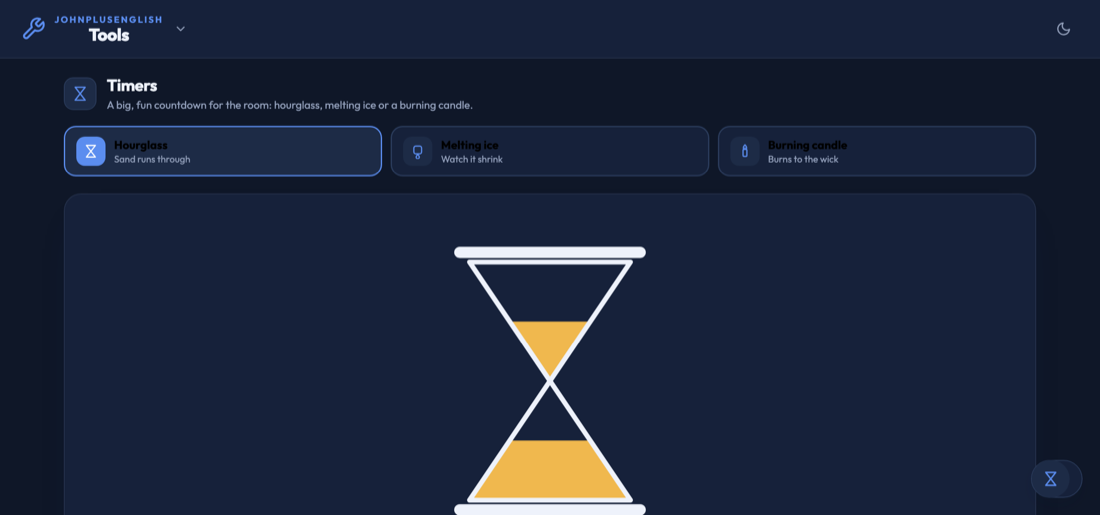
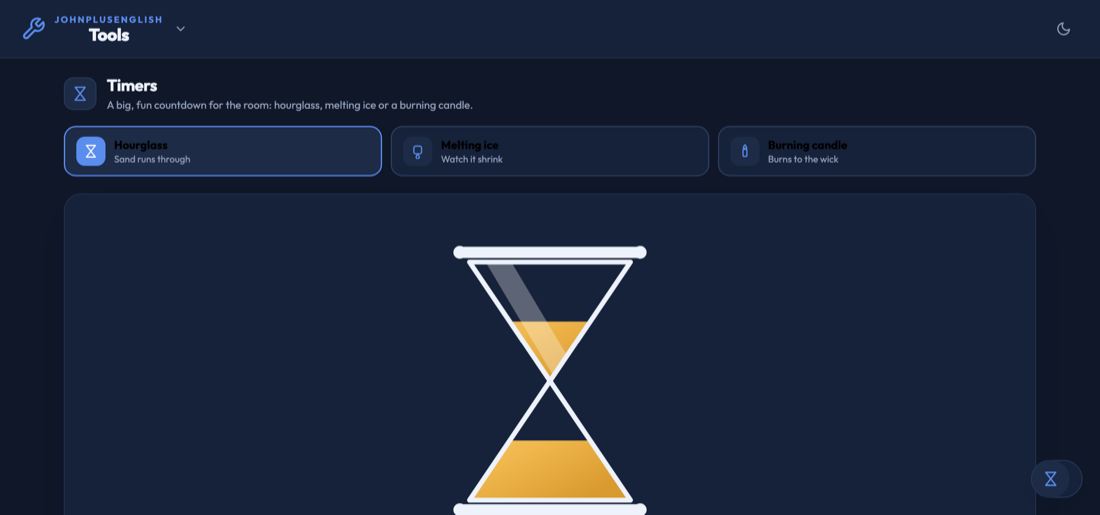
Timers: give the three visuals more life without leaving the site's style
Same flat, clean vector language, just more detail: gradient fills instead
of flat colour for volume (sand, ice, wax), a soft radial glow behind the
candle flame, a three-tone flame core, falling sand grains instead of a
single stream line, ice facet and highlight lines, a melt-pool collar
around the candle's wick, rounded finials on the hourglass frame, and a
drop shadow under all three for weight.

Changed region(s): [[0.4327, 0.4971, 0.5255, 0.7146], [0.4945, 0.901, 0.5873, 0.9631]]

diff --git a/src/timers.html b/src/timers.html
@@ -242,18 +242,31 @@ function tmrRenderHourglass(progress, running) {
   var topClipY = 100 - topH, botClipY = 174 - botH;
   var streamOn = running && progress > 0.003 && progress < 0.997;
   var shimmer = (0.55 + 0.45 * Math.abs(Math.sin(Date.now() / 90))).toFixed(2);
+  var grainPhase = (Date.now() % 500) / 500;
+  var grainPhase2 = ((Date.now() + 250) % 500) / 500;
   return '' +
     '<svg viewBox="0 0 160 200" class="tmr-svg" xmlns="http://www.w3.org/2000/svg">' +
       '<defs>' +
         '<clipPath id="tmrTopClip"><rect x="0" y="' + topClipY.toFixed(1) + '" width="160" height="' + (topH + 1).toFixed(1) + '"/></clipPath>' +
         '<clipPath id="tmrBotClip"><rect x="0" y="' + botClipY.toFixed(1) + '" width="160" height="' + (botH + 1).toFixed(1) + '"/></clipPath>' +
+        '<clipPath id="tmrGlassClipTop"><polygon points="30,26 130,26 80,100"/></clipPath>' +
+        '<linearGradient id="tmrSandGrad" x1="0" y1="0" x2="0.7" y2="1">' +
+          '<stop offset="0" stop-color="#ffd27a"/><stop offset="0.55" stop-color="#f0b84e"/><stop offset="1" stop-color="#d99a2f"/>' +
+        '</linearGradient>' +
       '</defs>' +
-      '<polygon points="30,26 130,26 80,100" fill="#f0b84e" clip-path="url(#tmrTopClip)"/>' +
-      '<polygon points="30,174 130,174 80,100" fill="#f0b84e" clip-path="url(#tmrBotClip)"/>' +
-      (streamOn ? '<line x1="80" y1="97" x2="80" y2="103" stroke="#f0b84e" stroke-width="2.5" stroke-linecap="round" opacity="' + shimmer + '"/>' : '') +
+      '<ellipse cx="80" cy="192" rx="36" ry="5" fill="var(--ink)" opacity="0.08"/>' +
+      '<polygon points="30,26 130,26 80,100" fill="url(#tmrSandGrad)" clip-path="url(#tmrTopClip)"/>' +
+      '<polygon points="30,174 130,174 80,100" fill="url(#tmrSandGrad)" clip-path="url(#tmrBotClip)"/>' +
+      (streamOn ?
+        '<circle cx="80" cy="' + (98 + grainPhase * 5).toFixed(1) + '" r="1.3" fill="#f0b84e" opacity="' + shimmer + '"/>' +
+        '<circle cx="80.8" cy="' + (98 + grainPhase2 * 5).toFixed(1) + '" r="1" fill="#f0b84e" opacity="' + shimmer + '"/>'
+      : '') +
+      '<polygon points="40,26 56,26 100,100 84,100" fill="#ffffff" opacity="0.3" clip-path="url(#tmrGlassClipTop)"/>' +
       '<path d="M30 26 L130 26 L80 100 Z M30 174 L130 174 L80 100 Z" fill="none" stroke="var(--ink)" stroke-width="3" stroke-linejoin="round"/>' +
       '<line x1="24" y1="20" x2="136" y2="20" stroke="var(--ink)" stroke-width="7" stroke-linecap="round"/>' +
       '<line x1="24" y1="180" x2="136" y2="180" stroke="var(--ink)" stroke-width="7" stroke-linecap="round"/>' +
+      '<circle cx="24" cy="20" r="4" fill="var(--ink)"/><circle cx="136" cy="20" r="4" fill="var(--ink)"/>' +
+      '<circle cx="24" cy="180" r="4" fill="var(--ink)"/><circle cx="136" cy="180" r="4" fill="var(--ink)"/>' +
     '</svg>';
 }
 
@@ -269,9 +282,19 @@ function tmrRenderIce(progress, running) {
   var phaseB = ((Date.now() + 900) % 1800) / 1800;
   return '' +
     '<svg viewBox="0 0 160 200" class="tmr-svg" xmlns="http://www.w3.org/2000/svg">' +
-      '<ellipse cx="80" cy="176" rx="' + puddleRx.toFixed(1) + '" ry="' + puddleRy.toFixed(1) + '" fill="#8fd0f2" opacity="' + puddleOpacity + '"/>' +
-      '<rect x="' + x + '" y="' + topY.toFixed(1) + '" width="' + w + '" height="' + h.toFixed(1) + '" rx="' + rx.toFixed(1) + '" fill="#bfe8fb" fill-opacity="0.85" stroke="#8fd0f2" stroke-width="2"/>' +
-      '<rect x="' + (x + 10) + '" y="' + (topY + 8).toFixed(1) + '" width="9" height="' + Math.max(0, h - 20).toFixed(1) + '" rx="4" fill="#ffffff" opacity="0.55"/>' +
+      '<defs>' +
+        '<linearGradient id="tmrIceGrad" x1="0" y1="0" x2="1" y2="1">' +
+          '<stop offset="0" stop-color="#eaf8ff"/><stop offset="0.5" stop-color="#bfe8fb"/><stop offset="1" stop-color="#8fd0f2"/>' +
+        '</linearGradient>' +
+        '<radialGradient id="tmrPuddleGrad" cx="0.5" cy="0.35" r="0.65">' +
+          '<stop offset="0" stop-color="#d3f1fd"/><stop offset="1" stop-color="#8fd0f2"/>' +
+        '</radialGradient>' +
+      '</defs>' +
+      '<ellipse cx="80" cy="176" rx="' + puddleRx.toFixed(1) + '" ry="' + puddleRy.toFixed(1) + '" fill="url(#tmrPuddleGrad)" opacity="' + puddleOpacity + '"/>' +
+      '<rect x="' + x + '" y="' + topY.toFixed(1) + '" width="' + w + '" height="' + h.toFixed(1) + '" rx="' + rx.toFixed(1) + '" fill="url(#tmrIceGrad)" fill-opacity="0.92" stroke="#8fd0f2" stroke-width="2"/>' +
+      (h > 26 ? '<line x1="' + (x + 8) + '" y1="' + (topY + h * 0.3).toFixed(1) + '" x2="' + (x + w - 10) + '" y2="' + (topY + h * 0.5).toFixed(1) + '" stroke="#ffffff" stroke-width="1" opacity="0.3"/>' : '') +
+      '<rect x="' + (x + 10) + '" y="' + (topY + 8).toFixed(1) + '" width="9" height="' + Math.max(0, h - 20).toFixed(1) + '" rx="4" fill="#ffffff" opacity="0.6"/>' +
+      '<rect x="' + (x + w - 15) + '" y="' + (topY + 14).toFixed(1) + '" width="4" height="' + Math.max(0, h - 30).toFixed(1) + '" rx="2" fill="#ffffff" opacity="0.35"/>' +
       (dripsOn ?
         '<circle cx="' + (x + 16) + '" cy="' + (bottomY + phaseA * 14).toFixed(1) + '" r="3" fill="#8fd0f2" opacity="' + (1 - phaseA).toFixed(2) + '"/>' +
         '<circle cx="' + (x + 52) + '" cy="' + (bottomY + phaseB * 14).toFixed(1) + '" r="2.4" fill="#8fd0f2" opacity="' + (1 - phaseB).toFixed(2) + '"/>'
@@ -290,17 +313,29 @@ function tmrRenderCandle(progress, running) {
   var dripOn = running && lit && h > 24;
   var dripPhase = (Date.now() % 2600) / 2600;
   var dripY = topY + 14 + dripPhase * Math.min(h - 10, 40);
+  var glowPulse = (0.5 + 0.5 * Math.abs(Math.sin(Date.now() / 260))).toFixed(2);
   return '' +
     '<svg viewBox="0 0 160 200" class="tmr-svg" xmlns="http://www.w3.org/2000/svg">' +
-      '<ellipse cx="80" cy="184" rx="26" ry="6" fill="var(--ink)" opacity="0.12"/>' +
-      '<rect x="' + x + '" y="' + topY.toFixed(1) + '" width="' + w + '" height="' + h.toFixed(1) + '" rx="7" fill="#fbeed9" stroke="#e7d3ac" stroke-width="1.5"/>' +
+      '<defs>' +
+        '<linearGradient id="tmrWaxGrad" x1="0" y1="0" x2="1" y2="0">' +
+          '<stop offset="0" stop-color="#fffaf0"/><stop offset="0.45" stop-color="#fbeed9"/><stop offset="1" stop-color="#ecd9b4"/>' +
+        '</linearGradient>' +
+        '<radialGradient id="tmrFlameGlow" cx="0.5" cy="0.5" r="0.5">' +
+          '<stop offset="0" stop-color="#ffd35b" stop-opacity="0.55"/><stop offset="1" stop-color="#ffd35b" stop-opacity="0"/>' +
+        '</radialGradient>' +
+      '</defs>' +
+      '<ellipse cx="80" cy="185" rx="28" ry="6.5" fill="var(--ink)" opacity="0.1"/>' +
+      '<rect x="' + x + '" y="' + topY.toFixed(1) + '" width="' + w + '" height="' + h.toFixed(1) + '" rx="7" fill="url(#tmrWaxGrad)" stroke="#e7d3ac" stroke-width="1.5"/>' +
       '<rect x="' + (x + 4) + '" y="' + topY.toFixed(1) + '" width="6" height="' + h.toFixed(1) + '" rx="3" fill="#ffffff" opacity="0.45"/>' +
-      (dripOn ? '<circle cx="' + (x + w - 5) + '" cy="' + dripY.toFixed(1) + '" r="2.6" fill="#f4e2bd"/>' : '') +
+      '<ellipse cx="80" cy="' + topY.toFixed(1) + '" rx="9" ry="2.6" fill="#e9d3a4"/>' +
+      (dripOn ? '<path d="M' + (x + w - 4) + ' ' + dripY.toFixed(1) + ' q4.5 3.5 0 9 q-4.5 -3.5 0 -9 Z" fill="#f4e2bd"/>' : '') +
       '<line x1="80" y1="' + topY.toFixed(1) + '" x2="80" y2="' + (topY - 9).toFixed(1) + '" stroke="#4a3c28" stroke-width="2" stroke-linecap="round"/>' +
       (lit ?
+        '<circle cx="80" cy="' + (topY - 15).toFixed(1) + '" r="' + (13 + flick * 1.3).toFixed(1) + '" fill="url(#tmrFlameGlow)" opacity="' + glowPulse + '"/>' +
         '<g transform="translate(80,' + (topY - 9).toFixed(1) + ') scale(' + flameScale + ') skewX(' + flameSkew + ')">' +
           '<path d="M0 -22 C 9 -12 9 -2 0 4 C -9 -2 -9 -12 0 -22 Z" fill="#ff8a3d"/>' +
           '<path d="M0 -15 C 5 -8 5 -1 0 3 C -5 -1 -5 -8 0 -15 Z" fill="#ffd35b"/>' +
+          '<path d="M0 -8 C 2.4 -4 2.4 -1 0 2 C -2.4 -1 -2.4 -4 0 -8 Z" fill="#fff6d8"/>' +
         '</g>'
       :
         '<path d="M80 ' + (topY - 9).toFixed(1) + ' C 86 ' + (topY - 20).toFixed(1) + ' 76 ' + (topY - 30).toFixed(1) + ' 82 ' + (topY - 42).toFixed(1) + '" fill="none" stroke="var(--muted)" stroke-width="2" stroke-linecap="round" opacity="0.5"/>'

diff --git a/tools/timers.html b/tools/timers.html
@@ -456,18 +456,31 @@ function tmrRenderHourglass(progress, running) {
   var topClipY = 100 - topH, botClipY = 174 - botH;
   var streamOn = running && progress > 0.003 && progress < 0.997;
   var shimmer = (0.55 + 0.45 * Math.abs(Math.sin(Date.now() / 90))).toFixed(2);
+  var grainPhase = (Date.now() % 500) / 500;
+  var grainPhase2 = ((Date.now() + 250) % 500) / 500;
   return '' +
     '<svg viewBox="0 0 160 200" class="tmr-svg" xmlns="http://www.w3.org/2000/svg">' +
       '<defs>' +
         '<clipPath id="tmrTopClip"><rect x="0" y="' + topClipY.toFixed(1) + '" width="160" height="' + (topH + 1).toFixed(1) + '"/></clipPath>' +
         '<clipPath id="tmrBotClip"><rect x="0" y="' + botClipY.toFixed(1) + '" width="160" height="' + (botH + 1).toFixed(1) + '"/></clipPath>' +
+        '<clipPath id="tmrGlassClipTop"><polygon points="30,26 130,26 80,100"/></clipPath>' +
+        '<linearGradient id="tmrSandGrad" x1="0" y1="0" x2="0.7" y2="1">' +
+          '<stop offset="0" stop-color="#ffd27a"/><stop offset="0.55" stop-color="#f0b84e"/><stop offset="1" stop-color="#d99a2f"/>' +
+        '</linearGradient>' +
       '</defs>' +
-      '<polygon points="30,26 130,26 80,100" fill="#f0b84e" clip-path="url(#tmrTopClip)"/>' +
-      '<polygon points="30,174 130,174 80,100" fill="#f0b84e" clip-path="url(#tmrBotClip)"/>' +
-      (streamOn ? '<line x1="80" y1="97" x2="80" y2="103" stroke="#f0b84e" stroke-width="2.5" stroke-linecap="round" opacity="' + shimmer + '"/>' : '') +
+      '<ellipse cx="80" cy="192" rx="36" ry="5" fill="var(--ink)" opacity="0.08"/>' +
+      '<polygon points="30,26 130,26 80,100" fill="url(#tmrSandGrad)" clip-path="url(#tmrTopClip)"/>' +
+      '<polygon points="30,174 130,174 80,100" fill="url(#tmrSandGrad)" clip-path="url(#tmrBotClip)"/>' +
+      (streamOn ?
+        '<circle cx="80" cy="' + (98 + grainPhase * 5).toFixed(1) + '" r="1.3" fill="#f0b84e" opacity="' + shimmer + '"/>' +
+        '<circle cx="80.8" cy="' + (98 + grainPhase2 * 5).toFixed(1) + '" r="1" fill="#f0b84e" opacity="' + shimmer + '"/>'
+      : '') +
+      '<polygon points="40,26 56,26 100,100 84,100" fill="#ffffff" opacity="0.3" clip-path="url(#tmrGlassClipTop)"/>' +
       '<path d="M30 26 L130 26 L80 100 Z M30 174 L130 174 L80 100 Z" fill="none" stroke="var(--ink)" stroke-width="3" stroke-linejoin="round"/>' +
       '<line x1="24" y1="20" x2="136" y2="20" stroke="var(--ink)" stroke-width="7" stroke-linecap="round"/>' +
       '<line x1="24" y1="180" x2="136" y2="180" stroke="var(--ink)" stroke-width="7" stroke-linecap="round"/>' +
+      '<circle cx="24" cy="20" r="4" fill="var(--ink)"/><circle cx="136" cy="20" r="4" fill="var(--ink)"/>' +
+      '<circle cx="24" cy="180" r="4" fill="var(--ink)"/><circle cx="136" cy="180" r="4" fill="var(--ink)"/>' +
     '</svg>';
 }
 
@@ -483,9 +496,19 @@ function tmrRenderIce(progress, running) {
   var phaseB = ((Date.now() + 900) % 1800) / 1800;
   return '' +
     '<svg viewBox="0 0 160 200" class="tmr-svg" xmlns="http://www.w3.org/2000/svg">' +
-      '<ellipse cx="80" cy="176" rx="' + puddleRx.toFixed(1) + '" ry="' + puddleRy.toFixed(1) + '" fill="#8fd0f2" opacity="' + puddleOpacity + '"/>' +
-      '<rect x="' + x + '" y="' + topY.toFixed(1) + '" width="' + w + '" height="' + h.toFixed(1) + '" rx="' + rx.toFixed(1) + '" fill="#bfe8fb" fill-opacity="0.85" stroke="#8fd0f2" stroke-width="2"/>' +
-      '<rect x="' + (x + 10) + '" y="' + (topY + 8).toFixed(1) + '" width="9" height="' + Math.max(0, h - 20).toFixed(1) + '" rx="4" fill="#ffffff" opacity="0.55"/>' +
+      '<defs>' +
+        '<linearGradient id="tmrIceGrad" x1="0" y1="0" x2="1" y2="1">' +
+          '<stop offset="0" stop-color="#eaf8ff"/><stop offset="0.5" stop-color="#bfe8fb"/><stop offset="1" stop-color="#8fd0f2"/>' +
+        '</linearGradient>' +
+        '<radialGradient id="tmrPuddleGrad" cx="0.5" cy="0.35" r="0.65">' +
+          '<stop offset="0" stop-color="#d3f1fd"/><stop offset="1" stop-color="#8fd0f2"/>' +
+        '</radialGradient>' +
+      '</defs>' +
+      '<ellipse cx="80" cy="176" rx="' + puddleRx.toFixed(1) + '" ry="' + puddleRy.toFixed(1) + '" fill="url(#tmrPuddleGrad)" opacity="' + puddleOpacity + '"/>' +
+      '<rect x="' + x + '" y="' + topY.toFixed(1) + '" width="' + w + '" height="' + h.toFixed(1) + '" rx="' + rx.toFixed(1) + '" fill="url(#tmrIceGrad)" fill-opacity="0.92" stroke="#8fd0f2" stroke-width="2"/>' +
+      (h > 26 ? '<line x1="' + (x + 8) + '" y1="' + (topY + h * 0.3).toFixed(1) + '" x2="' + (x + w - 10) + '" y2="' + (topY + h * 0.5).toFixed(1) + '" stroke="#ffffff" stroke-width="1" opacity="0.3"/>' : '') +
+      '<rect x="' + (x + 10) + '" y="' + (topY + 8).toFixed(1) + '" width="9" height="' + Math.max(0, h - 20).toFixed(1) + '" rx="4" fill="#ffffff" opacity="0.6"/>' +
+      '<rect x="' + (x + w - 15) + '" y="' + (topY + 14).toFixed(1) + '" width="4" height="' + Math.max(0, h - 30).toFixed(1) + '" rx="2" fill="#ffffff" opacity="0.35"/>' +
       (dripsOn ?
         '<circle cx="' + (x + 16) + '" cy="' + (bottomY + phaseA * 14).toFixed(1) + '" r="3" fill="#8fd0f2" opacity="' + (1 - phaseA).toFixed(2) + '"/>' +
         '<circle cx="' + (x + 52) + '" cy="' + (bottomY + phaseB * 14).toFixed(1) + '" r="2.4" fill="#8fd0f2" opacity="' + (1 - phaseB).toFixed(2) + '"/>'
@@ -504,17 +527,29 @@ function tmrRenderCandle(progress, running) {
   var dripOn = running && lit && h > 24;
   var dripPhase = (Date.now() % 2600) / 2600;
   var dripY = topY + 14 + dripPhase * Math.min(h - 10, 40);
+  var glowPulse = (0.5 + 0.5 * Math.abs(Math.sin(Date.now() / 260))).toFixed(2);
   return '' +
     '<svg viewBox="0 0 160 200" class="tmr-svg" xmlns="http://www.w3.org/2000/svg">' +
-      '<ellipse cx="80" cy="184" rx="26" ry="6" fill="var(--ink)" opacity="0.12"/>' +
-      '<rect x="' + x + '" y="' + topY.toFixed(1) + '" width="' + w + '" height="' + h.toFixed(1) + '" rx="7" fill="#fbeed9" stroke="#e7d3ac" stroke-width="1.5"/>' +
+      '<defs>' +
+        '<linearGradient id="tmrWaxGrad" x1="0" y1="0" x2="1" y2="0">' +
+          '<stop offset="0" stop-color="#fffaf0"/><stop offset="0.45" stop-color="#fbeed9"/><stop offset="1" stop-color="#ecd9b4"/>' +
+        '</linearGradient>' +
+        '<radialGradient id="tmrFlameGlow" cx="0.5" cy="0.5" r="0.5">' +
+          '<stop offset="0" stop-color="#ffd35b" stop-opacity="0.55"/><stop offset="1" stop-color="#ffd35b" stop-opacity="0"/>' +
+        '</radialGradient>' +
+      '</defs>' +
+      '<ellipse cx="80" cy="185" rx="28" ry="6.5" fill="var(--ink)" opacity="0.1"/>' +
+      '<rect x="' + x + '" y="' + topY.toFixed(1) + '" width="' + w + '" height="' + h.toFixed(1) + '" rx="7" fill="url(#tmrWaxGrad)" stroke="#e7d3ac" stroke-width="1.5"/>' +
       '<rect x="' + (x + 4) + '" y="' + topY.toFixed(1) + '" width="6" height="' + h.toFixed(1) + '" rx="3" fill="#ffffff" opacity="0.45"/>' +
-      (dripOn ? '<circle cx="' + (x + w - 5) + '" cy="' + dripY.toFixed(1) + '" r="2.6" fill="#f4e2bd"/>' : '') +
+      '<ellipse cx="80" cy="' + topY.toFixed(1) + '" rx="9" ry="2.6" fill="#e9d3a4"/>' +
+      (dripOn ? '<path d="M' + (x + w - 4) + ' ' + dripY.toFixed(1) + ' q4.5 3.5 0 9 q-4.5 -3.5 0 -9 Z" fill="#f4e2bd"/>' : '') +
       '<line x1="80" y1="' + topY.toFixed(1) + '" x2="80" y2="' + (topY - 9).toFixed(1) + '" stroke="#4a3c28" stroke-width="2" stroke-linecap="round"/>' +
       (lit ?
+        '<circle cx="80" cy="' + (topY - 15).toFixed(1) + '" r="' + (13 + flick * 1.3).toFixed(1) + '" fill="url(#tmrFlameGlow)" opacity="' + glowPulse + '"/>' +
         '<g transform="translate(80,' + (topY - 9).toFixed(1) + ') scale(' + flameScale + ') skewX(' + flameSkew + ')">' +
           '<path d="M0 -22 C 9 -12 9 -2 0 4 C -9 -2 -9 -12 0 -22 Z" fill="#ff8a3d"/>' +
           '<path d="M0 -15 C 5 -8 5 -1 0 3 C -5 -1 -5 -8 0 -15 Z" fill="#ffd35b"/>' +
+          '<path d="M0 -8 C 2.4 -4 2.4 -1 0 2 C -2.4 -1 -2.4 -4 0 -8 Z" fill="#fff6d8"/>' +
         '</g>'
       :
         '<path d="M80 ' + (topY - 9).toFixed(1) + ' C 86 ' + (topY - 20).toFixed(1) + ' 76 ' + (topY - 30).toFixed(1) + ' 82 ' + (topY - 42).toFixed(1) + '" fill="none" stroke="var(--muted)" stroke-width="2" stroke-linecap="round" opacity="0.5"/>'
